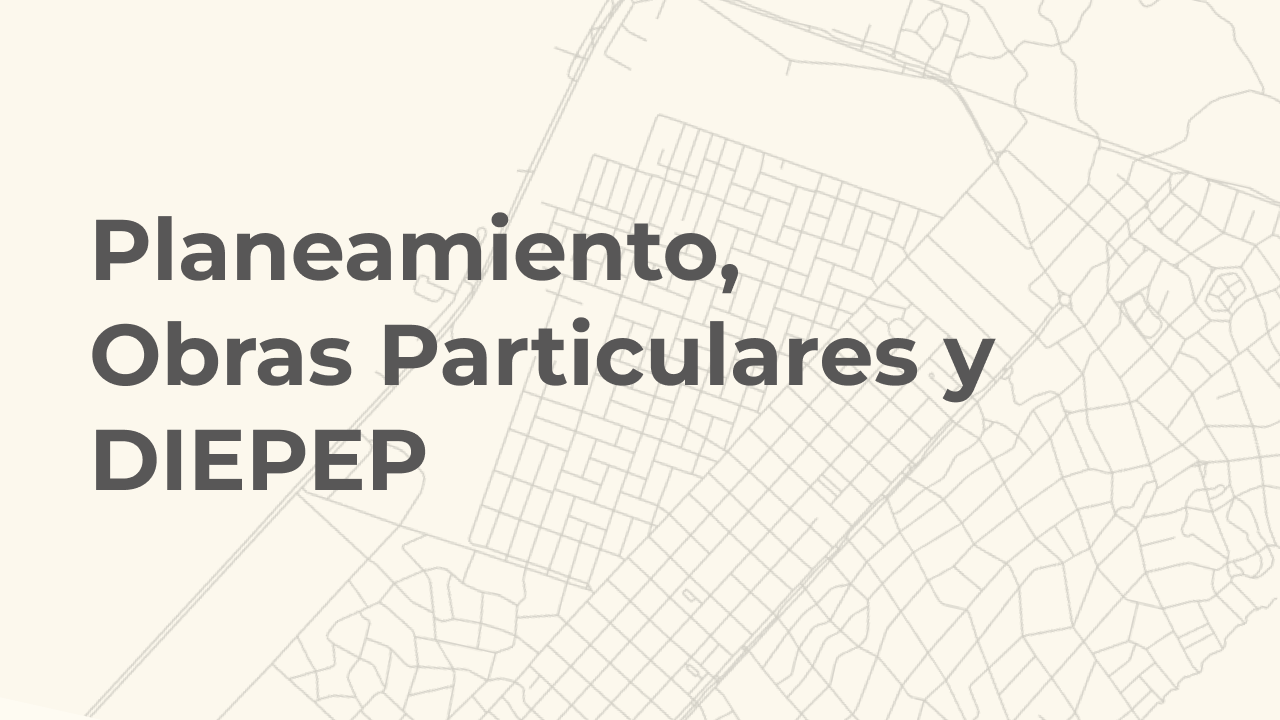
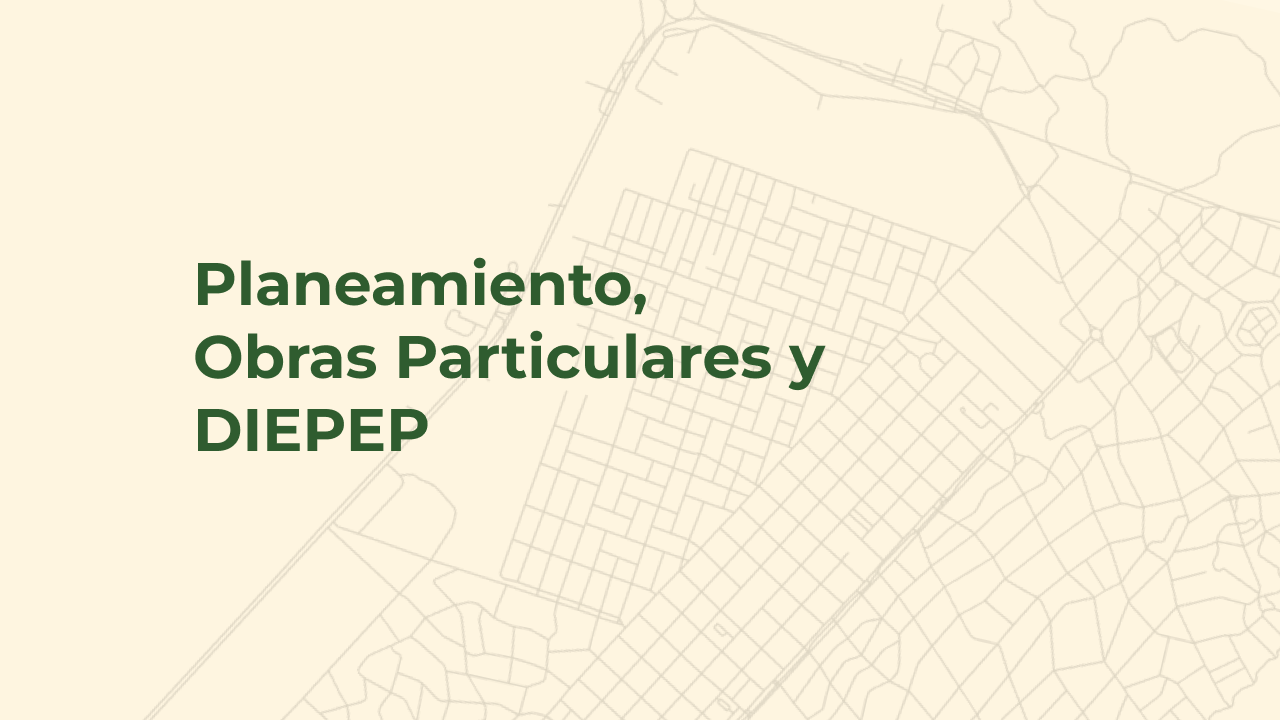
Cambio hero image y ajuste de estilos

diff --git a/assets/css/custom.scss b/assets/css/custom.scss
@@ -145,7 +145,7 @@ body {
 
 .hero-image {
   width: 100%;
-  max-height: 680px;
+  max-height: 600px;
   height: auto;
   object-fit: cover;
   object-position: center;
@@ -156,7 +156,7 @@ body {
 
 @media (max-width: 768px) {
   .hero-image {
-    max-height: 200px;
+    max-height: 600px;
   }
 }
 
